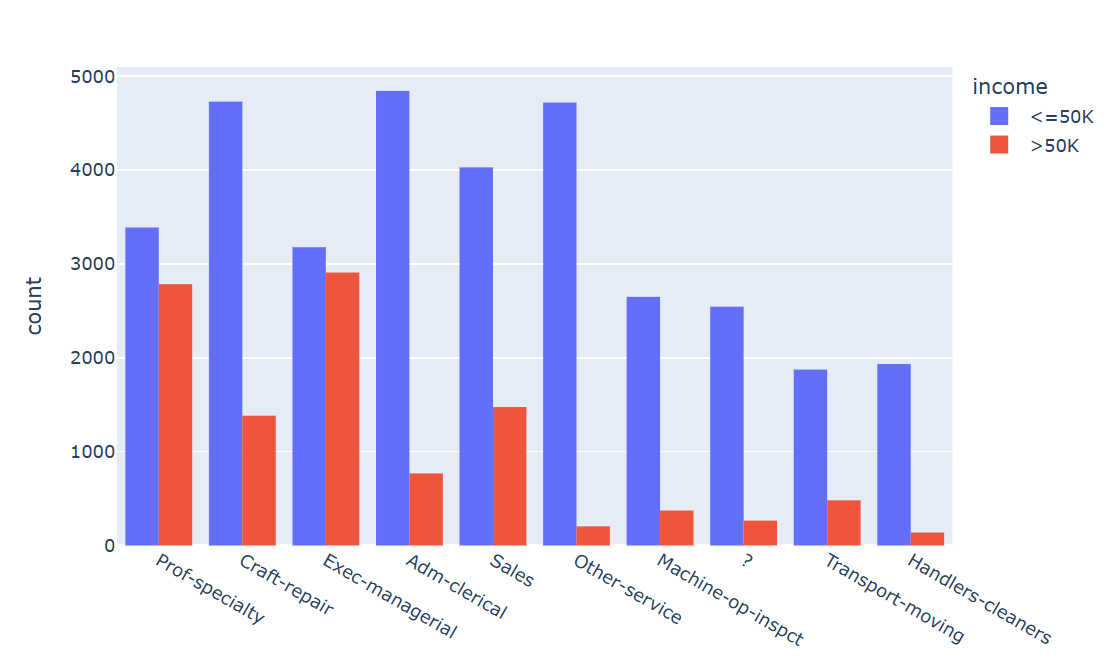
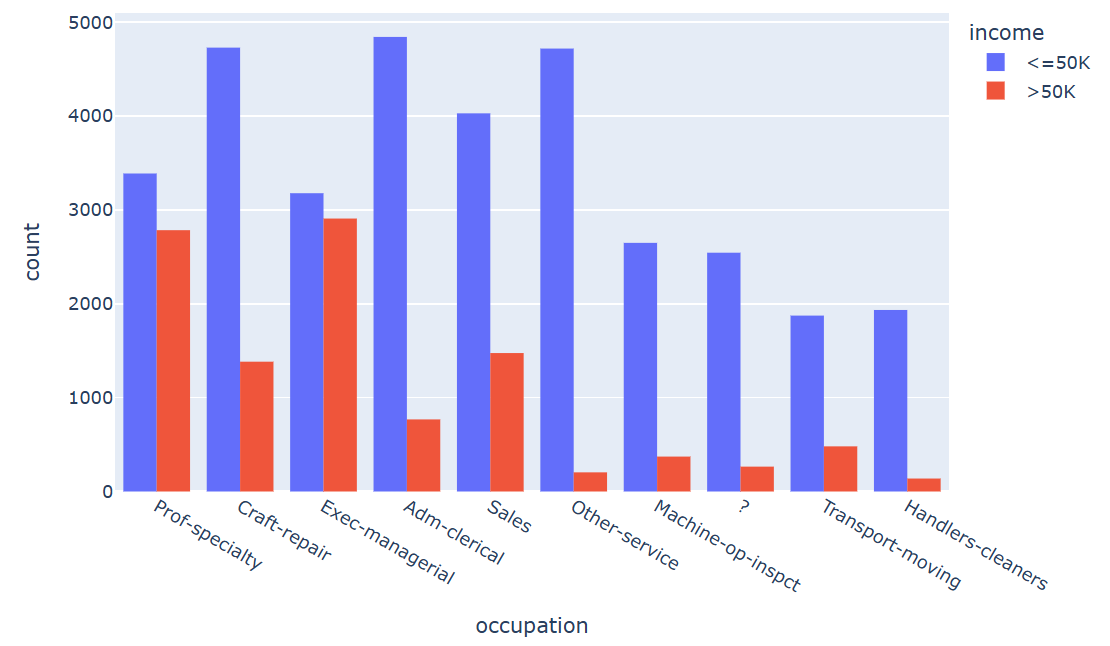
assignment1

diff --git a/docs/assignment1.html b/docs/assignment1.html
@@ -62,19 +62,41 @@
             <div class="card">
                 <h3>Numerical Features</h3>
                 <div class="img-placeholder">
-                    <img src="assets/assignment1/hours.png" alt="hours-per-week Distribution" class="preview-img">
+                    <img src="assets/assignment1/age.png" alt="hours-per-week Distribution" class="preview-img">
+                </div>
+                <div class="img-placeholder">
+                    <img src="assets/assignment1/fnlwgt.png" alt="fnlwgt Distribution" class="preview-img">
+                </div>
+                <div class="img-placeholder">
+                    <img src="assets/assignment1/edu_num.png" alt="fnlwgt Distribution" class="preview-img">
                 </div>
                 <div class="img-placeholder">
                     <img src="assets/assignment1/capital-gain.png" alt="capital-gain Distribution" class="preview-img">
                 </div>
                 <div class="img-placeholder">
-                    <img src="assets/assignment1/fnlwgt.png" alt="fnlwgt Distribution" class="preview-img">
+                    <img src="assets/assignment1/capital-loss.png" alt="capital-gain Distribution" class="preview-img">
                 </div>
-                <p style="margin-top: 10px;">Numerical features such as <code>capital-gain</code> and <code>fnlwgt</code> are highly skewed.</p>
+                <div class="img-placeholder">
+                    <img src="assets/assignment1/hours.png" alt="hours-per-week Distribution" class="preview-img">
+                </div>
+                <p style="margin-top: 10px;">Numerical features such as <code>capital-gain</code>, <code>capital-loss</code>, <code>fnlwgt</code> are highly skewed.</p>
+                <div class="img-placeholder">
+                    <img src="assets/assignment1/heatmap.png" alt="hours-per-week Distribution" class="preview-img">
+                </div>
+                <p style="margin-top: 10px;">Most of the correlation coefficients are close to 0 (–0.07 - 0.14), indicating that there are no strong linear relationships among the continuous variables in the dataset.</p>
             </div>
 
             <div class="card">
                 <h3>Categorical Features</h3>
+                <div class="img-placeholder">
+                    <img src="assets/assignment1/work-class.png" alt="relationship Distribution" class="preview-img">
+                </div>
+                <div class="img-placeholder">
+                    <img src="assets/assignment1/education.png" alt="education Distribution" class="preview-img">
+                </div>
+                <div class="img-placeholder">
+                    <img src="assets/assignment1/marital.png" alt="education Distribution" class="preview-img">
+                </div>
                 <div class="img-placeholder">
                     <img src="assets/assignment1/relation.png" alt="relationship Distribution" class="preview-img">
                 </div>
@@ -82,11 +104,18 @@
                     <img src="assets/assignment1/occupation.png" alt="occupation Distribution" class="preview-img">
                 </div>
                 <div class="img-placeholder">
-                    <img src="assets/assignment1/education.png" alt="education Distribution" class="preview-img">
+                    <img src="assets/assignment1/native.png" alt="hours-per-week Distribution" class="preview-img">
                 </div>
-                <p style="margin-top: 10px;">Categorical features like <code>education</code>, <code>occupation</code> have a large number of unique categories.</p>
+                <p style="margin-top: 10px;">Categorical features like <code>education</code>, <code>occupation</code>, <code>native-country</code> have a large number of unique categories.</p>
             </div>
         </div>
+        <div class="card">
+                <h3>Missing values</h3>
+                <div class="img-placeholder">
+                    <img src="assets/assignment1/missing-value.png" alt="hours-per-week Distribution" class="preview-img">
+                </div>
+                <p style="margin-top: 10px;">The dataset contains three columns with missing values, including <code>workclass</code>, <code>occupation</code> and <code>native-country</code>.</p>
+            </div>
     </section>
 
 
@@ -100,19 +129,28 @@
         <div class="card">
             <div style="display: flex; flex-wrap: wrap; gap: 20px;">
                 <div style="flex: 1;">
+                    <p><strong>Train/Val/Test split with stratification:</strong></p>
+                    <p>The dataset is split into 70% for training, 15% for validation, and 15% for testing.</p>
+                    <div class="img-placeholder">
+                        <img src="assets/assignment1/split.png" alt="hours-per-week Distribution" class="preview-img">
+                    </div>
+                </div>
+            </div>
+        </div>
+
+        <div class="card">
+            <div style="display: flex; flex-wrap: wrap; gap: 20px;">
+                <div style="flex: 1;">
                     <p><strong>Imputation of Missing Values:</strong></p>
                     <ul style="margin-left: 20px; color: var(--text-muted);">
-                        <li><p><strong>Numerical features:</strong> missing values were handled using strategies: <code>median</code>, <code>mean</code>, or <code>constant</code>.</p></li>
-                        <li><p><strong>Categorical features:</strong> missing categories were filled using <code>most_frequent</code> or <code>constant</code>.</p></li>
+                        <li><p><strong>Numerical features:</strong> missing values were handled using strategies <code>median</code>.</p></li>
+                        <li><p><strong>Categorical features:</strong> missing categories were filled using <code>constant</code>.</p></li>
                     </ul>
                 </div>
 
                 <div style="flex: 1;">
                     <p><strong>Encoding Categorical Features:</strong></p>
-                    <ul style="margin-left: 20px; color: var(--text-muted);">
-                        <li><p><strong>One-Hot Encoding:</strong> converts each category into a binary vector.</p></li>
-                        <li><p><strong>Ordinal Encoding:</strong> assigns a unique integer to each category.</p></li>
-                    </ul>
+                    <p><strong>One-Hot Encoding:</strong> converts each category into a binary vector.</p>
                 </div>
             </div>
         </div>
@@ -121,15 +159,12 @@
             <div style="display: flex; flex-wrap: wrap; gap: 20px;">
                 <div style="flex: 1;">
                     <p><strong>Feature Scaling:</strong></p>
-                    <ul style="margin-left: 20px; color: var(--text-muted);">
-                        <li><p><strong>Standard Scaling:</strong> transforms numerical features to have zero mean and unit variance.</p></li>
-                        <li><p><strong>Min-Max Scaling:</strong> rescales features to a specific range (usually <code>0–1</code>).</p></li>
-                    </ul>
+                    <p><strong>Standard Scaling:</strong> transforms numerical features to have zero mean and unit variance.</p>
                 </div>
 
                 <div style="flex: 1;">
                     <p><strong>Dimensionality Reduction:</strong></p>
-                    <p>Principal Component Analysis (PCA) can be applied to reduce dimensionality while retaining most of the variance.</p>
+                    <p>Principal Component Analysis (PCA) can be applied to reduce dimensionality while retaining most of the variance (e.g 90%, 95%).</p>
                 </div>
             </div>
         </div>
@@ -299,10 +334,11 @@
             </table>
 
             <ul style="margin-left: 20px; color: var(--text-muted); margin-top: 20px;">
-                <li><p><strong>TabNet</strong> achieved the highest overall F1-score across all models, outperforming both traditional ML models</p></li>
+                <li><p><strong>TabNet</strong> achieved the highest overall F1-score across all models, outperforming traditional machine learning approaches because it is specifically designed for tabular data with a column-wise attention mechanism.</p></li>
                 <li><p><strong>Logistic Regression</strong> and <strong>Support Vector Machine</strong> achieved the highest F1-score <code>(~0.65)</code> compared to the other machine learning models.</p></li>
+                <li><p><strong>Wide & Deep Neural Network</strong> achieved moderate performance, with low precision but highest recall (~78), indicating a tendency to overpredict the positive class.</p></li>
+                <li><p><strong>Gaussian Naive Bayes</strong> showed the lowest performance in the table (F1-Score ~0.59), indicating that its independence assumption does not align well with the dataset.</p></li>
                 <li><p>Using PCA that retains 95% of the variance performs better compared to using PCA with 90% variance.</p></li>
-                <li><p>Deep learning models generally outperform traditional ML models when sufficient data and feature preprocessing are applied.</p></li>
             </ul>
 
         </div>
